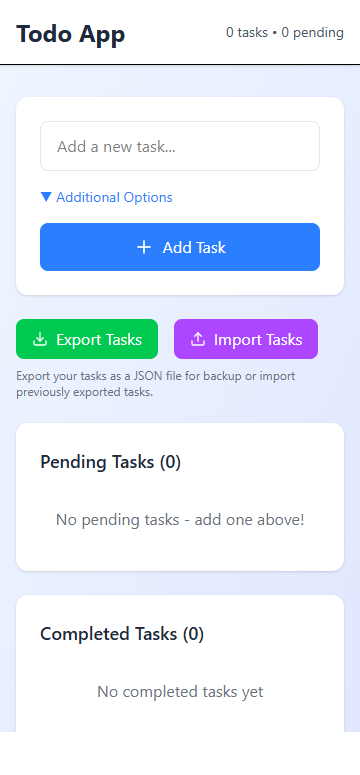
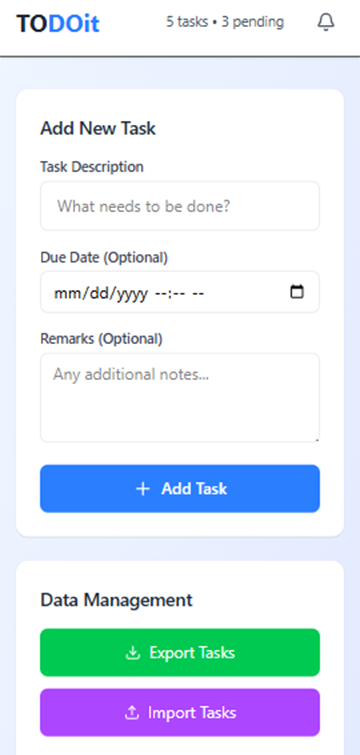
TODOit - Update UI. Move Addition of New Task to left side, and move pending/complete to right side.

diff --git a/src/components/AddTaskForm.jsx b/src/components/AddTaskForm.jsx
@@ -17,55 +17,59 @@ const AddTaskForm = ({ onAddTask }) => {
   }
 
   return (
-    <div className="bg-white rounded-xl shadow-sm p-6 mb-6">
+    <div className="bg-white rounded-xl shadow-sm p-6">
+      <h2 className="text-lg font-semibold text-gray-800 mb-4">Add New Task</h2>
       <form onSubmit={handleSubmit}>
-        <div className="flex flex-col gap-4">
-          {/* Task Input Row */}
-          <div className="flex flex-col sm:flex-row gap-4">
+        <div className="space-y-4">
+          {/* Task Input */}
+          <div>
+            <label className="block text-sm font-medium text-gray-700 mb-1">
+              Task Description
+            </label>
             <input
               type="text"
               value={newTask}
               onChange={(e) => setNewTask(e.target.value)}
-              placeholder="Add a new task..."
-              className="flex-1 px-4 py-3 border border-gray-200 rounded-lg focus:outline-none focus:ring-2 focus:ring-blue-500 focus:border-transparent"
+              placeholder="What needs to be done?"
+              className="w-full px-4 py-3 border border-gray-200 rounded-lg focus:outline-none focus:ring-2 focus:ring-blue-500 focus:border-transparent"
             />
           </div>
 
-          {/* Date and Remarks - Centered */}
-          <div className="flex justify-center">
-            <div className="grid grid-cols-1 md:grid-cols-2 gap-4 p-4 bg-gray-50 rounded-lg w-full max-w-2xl">
-              <div>
-                <label className="block text-sm font-medium text-gray-700 mb-1 text-center">
-                  Due Date (Optional)
-                </label>
-                <input
-                  type="datetime-local"
-                  value={dueDate}
-                  onChange={(e) => setDueDate(e.target.value)}
-                  className="w-full px-3 py-2 border border-gray-200 rounded-lg focus:outline-none focus:ring-2 focus:ring-blue-500"
-                />
-              </div>
-              <div>
-                <label className="block text-sm font-medium text-gray-700 mb-1 text-center">
-                  Remarks (Optional)
-                </label>
-                <input
-                  type="text"
-                  value={remarks}
-                  onChange={(e) => setRemarks(e.target.value)}
-                  placeholder="Any additional notes..."
-                  className="w-full px-3 py-2 border border-gray-200 rounded-lg focus:outline-none focus:ring-2 focus:ring-blue-500"
-                />
-              </div>
-            </div>
+          {/* Due Date */}
+          <div>
+            <label className="block text-sm font-medium text-gray-700 mb-1">
+              Due Date (Optional)
+            </label>
+            <input
+              type="datetime-local"
+              value={dueDate}
+              onChange={(e) => setDueDate(e.target.value)}
+              className="w-full px-3 py-2 border border-gray-200 rounded-lg focus:outline-none focus:ring-2 focus:ring-blue-500"
+            />
           </div>
-            <button
-              type="submit"
-              className="bg-blue-500 text-white px-6 py-3 rounded-lg hover:bg-blue-600 transition-colors flex items-center justify-center"
-            >
-              <Plus className="w-5 h-5 mr-2" />
-              Add Task
-            </button>
+
+          {/* Remarks */}
+          <div>
+            <label className="block text-sm font-medium text-gray-700 mb-1">
+              Remarks (Optional)
+            </label>
+            <textarea
+              value={remarks}
+              onChange={(e) => setRemarks(e.target.value)}
+              placeholder="Any additional notes..."
+              className="w-full px-3 py-2 border border-gray-200 rounded-lg focus:outline-none focus:ring-2 focus:ring-blue-500"
+              rows="3"
+            />
+          </div>
+
+          {/* Submit Button */}
+          <button
+            type="submit"
+            className="w-full bg-blue-500 text-white px-4 py-3 rounded-lg hover:bg-blue-600 transition-colors flex items-center justify-center font-medium"
+          >
+            <Plus className="w-5 h-5 mr-2" />
+            Add Task
+          </button>
         </div>
       </form>
     </div>

diff --git a/src/App.jsx b/src/App.jsx
@@ -33,10 +33,10 @@ const App = () => {
   }
 
   return (
-    <div className="min-h-screen bg-linear-to-br from-blue-50 to-indigo-100">
+    <div className="min-h-screen bg-gradient-to-br from-blue-50 to-indigo-100">
       {/* Header */}
       <header className="bg-white shadow-sm border-b">
-        <div className="max-w-4xl mx-auto px-4 py-4">
+        <div className="max-w-7xl mx-auto px-4 py-4">
           <div className="flex justify-between items-center">
             <h1 className="text-2xl font-bold text-gray-800">TO<span className="text-blue-500">DOit</span></h1>
             <div className="flex items-center space-x-6">
@@ -55,32 +55,39 @@ const App = () => {
         </div>
       </header>
 
-      <main className="max-w-4xl mx-auto px-4 py-8">
-        <AddTaskForm onAddTask={addTask} />
-        
-        <ExportImport 
-          onExport={exportTasks} 
-          onImport={handleImport} 
-        />
+      <main className="max-w-7xl mx-auto px-4 py-8">
+        <div className="grid grid-cols-1 lg:grid-cols-3 gap-8">
+          {/* Left Column - Adding Task Area & Export/Import */}
+          <div className="lg:col-span-1 space-y-6">
+            <AddTaskForm onAddTask={addTask} />
+            <ExportImport 
+              onExport={exportTasks} 
+              onImport={handleImport} 
+            />
+          </div>
 
-        <div className="grid gap-6 md:grid-cols-2">
-          <TaskList
-            title={`Pending Tasks (${pendingTasks.length})`}
-            tasks={pendingTasks}
-            onToggleTask={toggleTask}
-            onDeleteTask={deleteTask}
-            onUpdateRemarks={updateTaskRemarks}
-            emptyMessage="No pending tasks - add one above!"
-          />
-          
-          <TaskList
-            title={`Completed Tasks (${completedTasks.length})`}
-            tasks={completedTasks}
-            onToggleTask={toggleTask}
-            onDeleteTask={deleteTask}
-            onUpdateRemarks={updateTaskRemarks}
-            emptyMessage="No completed tasks yet"
-          />
+          {/* Right Columns - Tasks */}
+          <div className="lg:col-span-2">
+            <div className="grid grid-cols-1 md:grid-cols-2 gap-6">
+              <TaskList
+                title={`Pending Tasks (${pendingTasks.length})`}
+                tasks={pendingTasks}
+                onToggleTask={toggleTask}
+                onDeleteTask={deleteTask}
+                onUpdateRemarks={updateTaskRemarks}
+                emptyMessage="No pending tasks"
+              />
+              
+              <TaskList
+                title={`Completed Tasks (${completedTasks.length})`}
+                tasks={completedTasks}
+                onToggleTask={toggleTask}
+                onDeleteTask={deleteTask}
+                onUpdateRemarks={updateTaskRemarks}
+                emptyMessage="No completed tasks yet"
+              />
+            </div>
+          </div>
         </div>
       </main>
     </div>

diff --git a/src/components/ExportImport.jsx b/src/components/ExportImport.jsx
@@ -28,20 +28,20 @@ const ExportImport = ({ onExport, onImport }) => {
   }
 
   return (
-    <div className="mb-6">
-      {/* Centered container */}
-      <div className="flex flex-col items-center">
-        {/* Buttons container - centered horizontally */}
-        <div className="flex gap-4 mb-2 justify-center">
+    <div className="bg-white rounded-xl shadow-sm p-6">
+      <h2 className="text-lg font-semibold text-gray-800 mb-4">Data Management</h2>
+      <div className="space-y-4">
+        {/* Buttons */}
+        <div className="flex flex-col sm:flex-row gap-3">
           <button
             onClick={onExport}
-            className="flex items-center bg-green-500 text-white px-4 py-2 rounded-lg hover:bg-green-600 transition-colors shadow-sm"
+            className="flex-1 flex items-center justify-center bg-green-500 text-white px-4 py-3 rounded-lg hover:bg-green-600 transition-colors"
           >
             <Download className="w-4 h-4 mr-2" />
             Export Tasks
           </button>
           
-          <label className={`flex items-center bg-purple-500 text-white px-4 py-2 rounded-lg hover:bg-purple-600 transition-colors cursor-pointer shadow-sm ${isImporting ? 'opacity-50' : ''}`}>
+          <label className={`flex-1 flex items-center justify-center bg-purple-500 text-white px-4 py-3 rounded-lg hover:bg-purple-600 transition-colors cursor-pointer ${isImporting ? 'opacity-50' : ''}`}>
             <Upload className="w-4 h-4 mr-2" />
             {isImporting ? 'Importing...' : 'Import Tasks'}
             <input
@@ -54,16 +54,17 @@ const ExportImport = ({ onExport, onImport }) => {
           </label>
         </div>
         
-        {/* Error message - centered */}
+        {/* Error message */}
         {importError && (
-          <div className="bg-red-50 border border-red-200 rounded-lg p-3 max-w-md text-center">
+          <div className="bg-red-50 border border-red-200 rounded-lg p-3">
             <p className="text-red-800 text-sm">{importError}</p>
           </div>
         )}
         
-        {/* Description text - centered */}
-        <div className="text-xs text-gray-500 text-center mt-2 max-w-md">
-          Export your tasks as a JSON file for backup or import previously exported tasks.
+        {/* Description */}
+        <div className="text-sm text-gray-600">
+          <p className="mb-1">• Export tasks as JSON for backup</p>
+          <p>• Import previously exported tasks</p>
         </div>
       </div>
     </div>

diff --git a/src/components/NotificationBell.jsx b/src/components/NotificationBell.jsx
@@ -1,5 +1,5 @@
 import React, { useState, useRef, useEffect } from 'react'
-import { Bell, BellOff, CheckCircle, Circle, Trash2, X } from 'lucide-react'
+import { Bell, BellOff, CheckCircle, Circle, Trash2 } from 'lucide-react'
 import { format } from 'date-fns'
 
 const NotificationBell = ({ 
